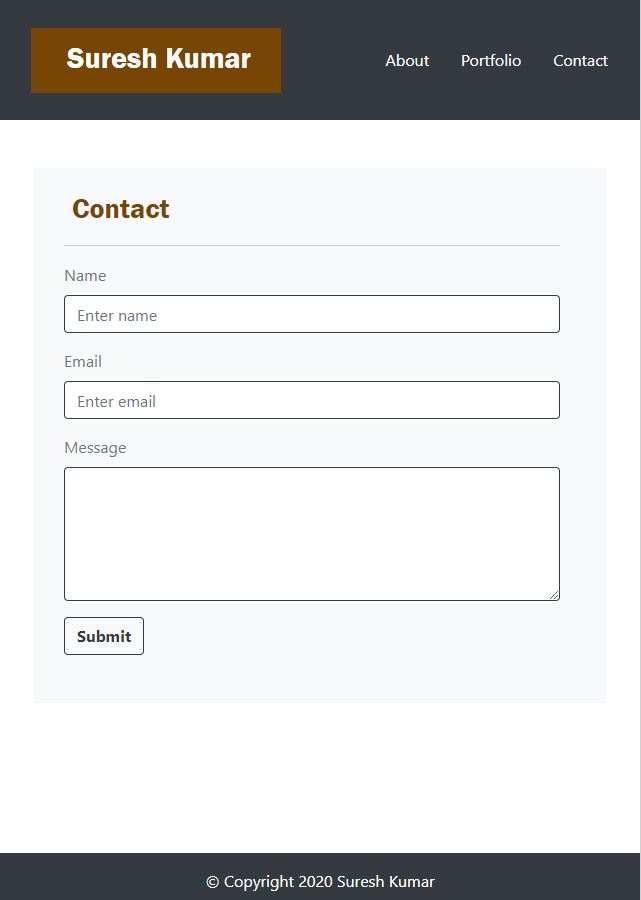
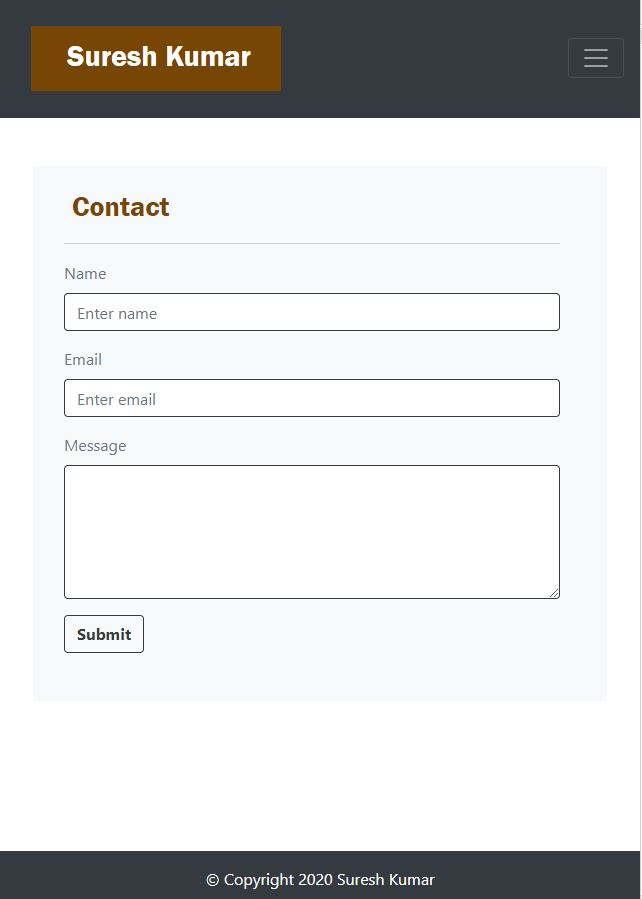
Updates to README.md and screenshots

diff --git a/README.md b/README.md
@@ -23,3 +23,46 @@ Usage: Click the below url to launch website to view the web page and click link
 Some sample screenshots on windows PC:
 
 
+On screen width 640:
+
+640-index.jpg:
+![Getting Started](results/640-index.jpg)
+
+640-index-expanded-ham.jpg
+![Getting Started](results/640-index-expanded-ham.jpg)
+
+640-portfolio.jpg:
+![Getting Started](results/640-portfolio.jpg)
+
+640-portfolio-expanded-ham.jpg
+![Getting Started](results/640-portfolio-expanded-ham.jpg)
+
+640-contact.jpg:
+![Getting Started](results/640-contact.jpg)
+
+640-contact-expanded-ham.jpg
+![Getting Started](results/640-contact-expanded-ham.jpg)
+
+
+On screen width 768:
+
+768-index.jpg:
+![Getting Started](results/768-index.jpg)
+
+768-portfolio.jpg:
+![Getting Started](results/768-portfolio.jpg)
+
+768-contact.jpg:
+![Getting Started](results/768-contact.jpg)
+
+
+On screen width 980:
+
+980-index.jpg:
+![Getting Started](results/980-index.jpg)
+
+980-portfolio.jpg:
+![Getting Started](results/980-portfolio.jpg)
+
+980-contact.jpg:
+![Getting Started](results/980-contact.jpg)
